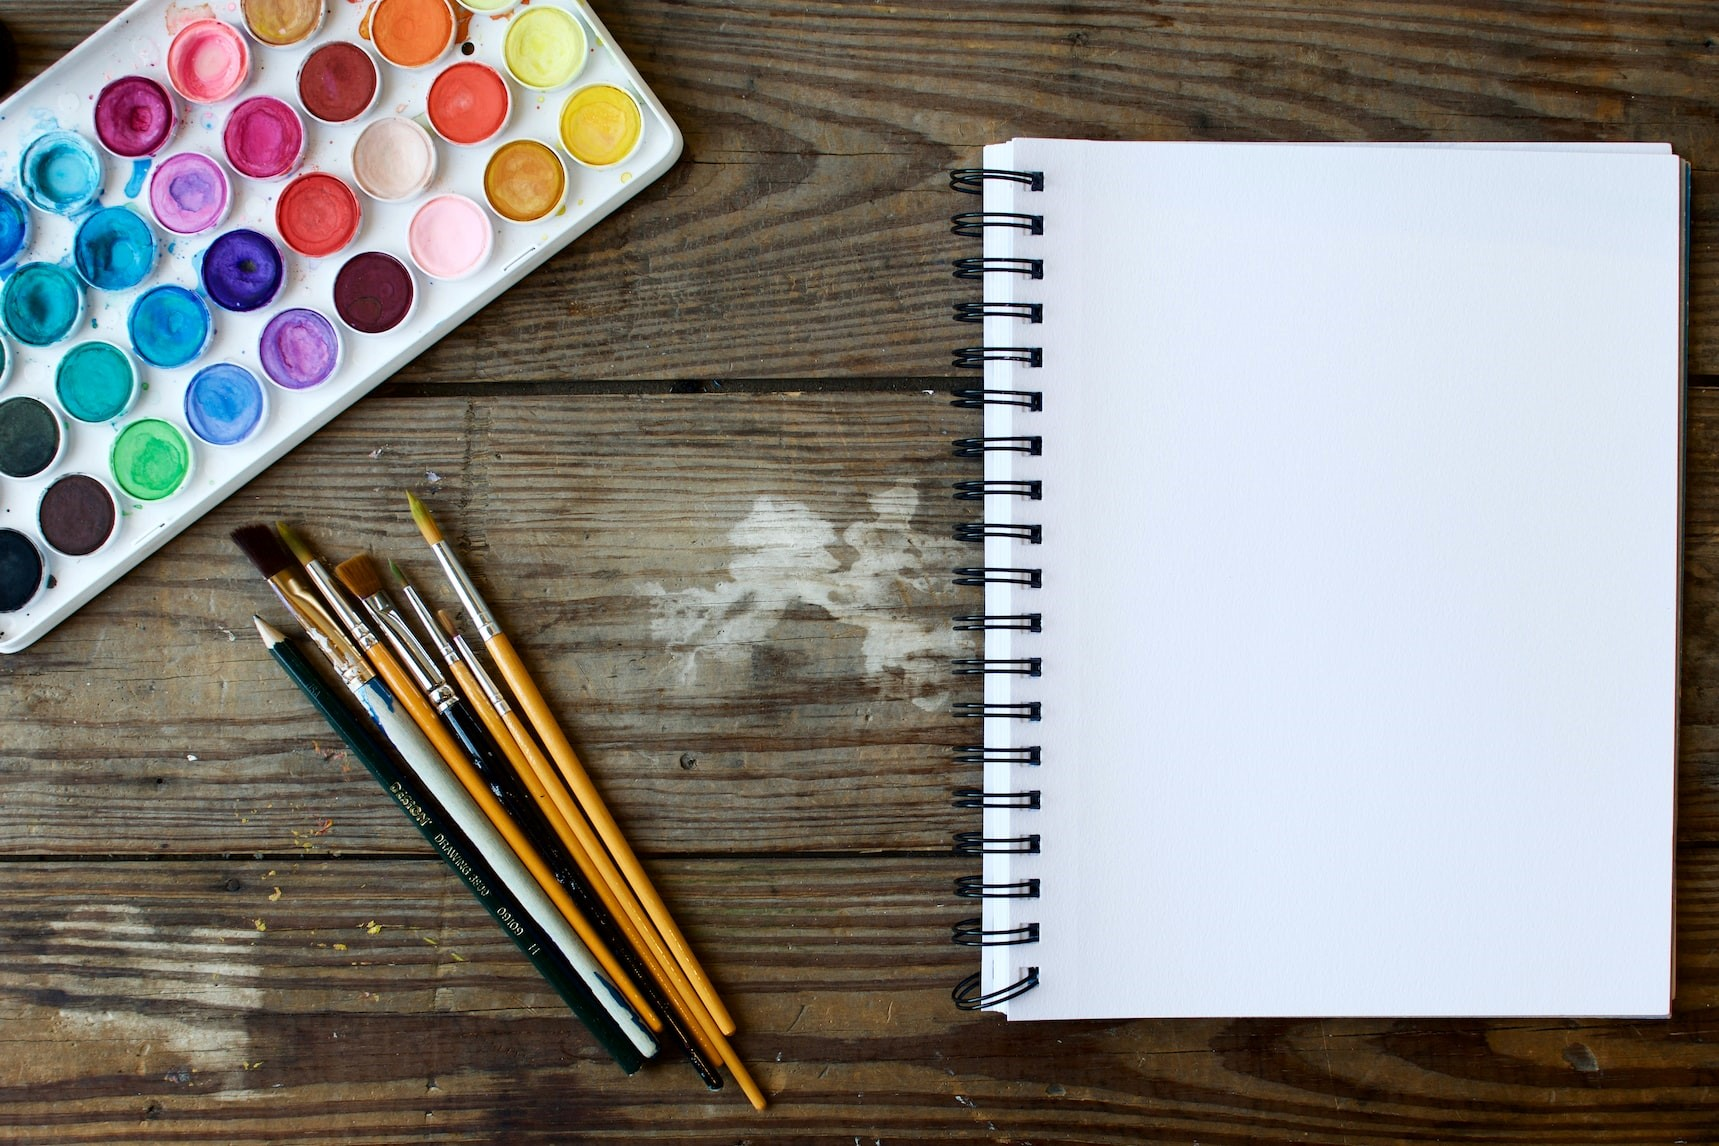
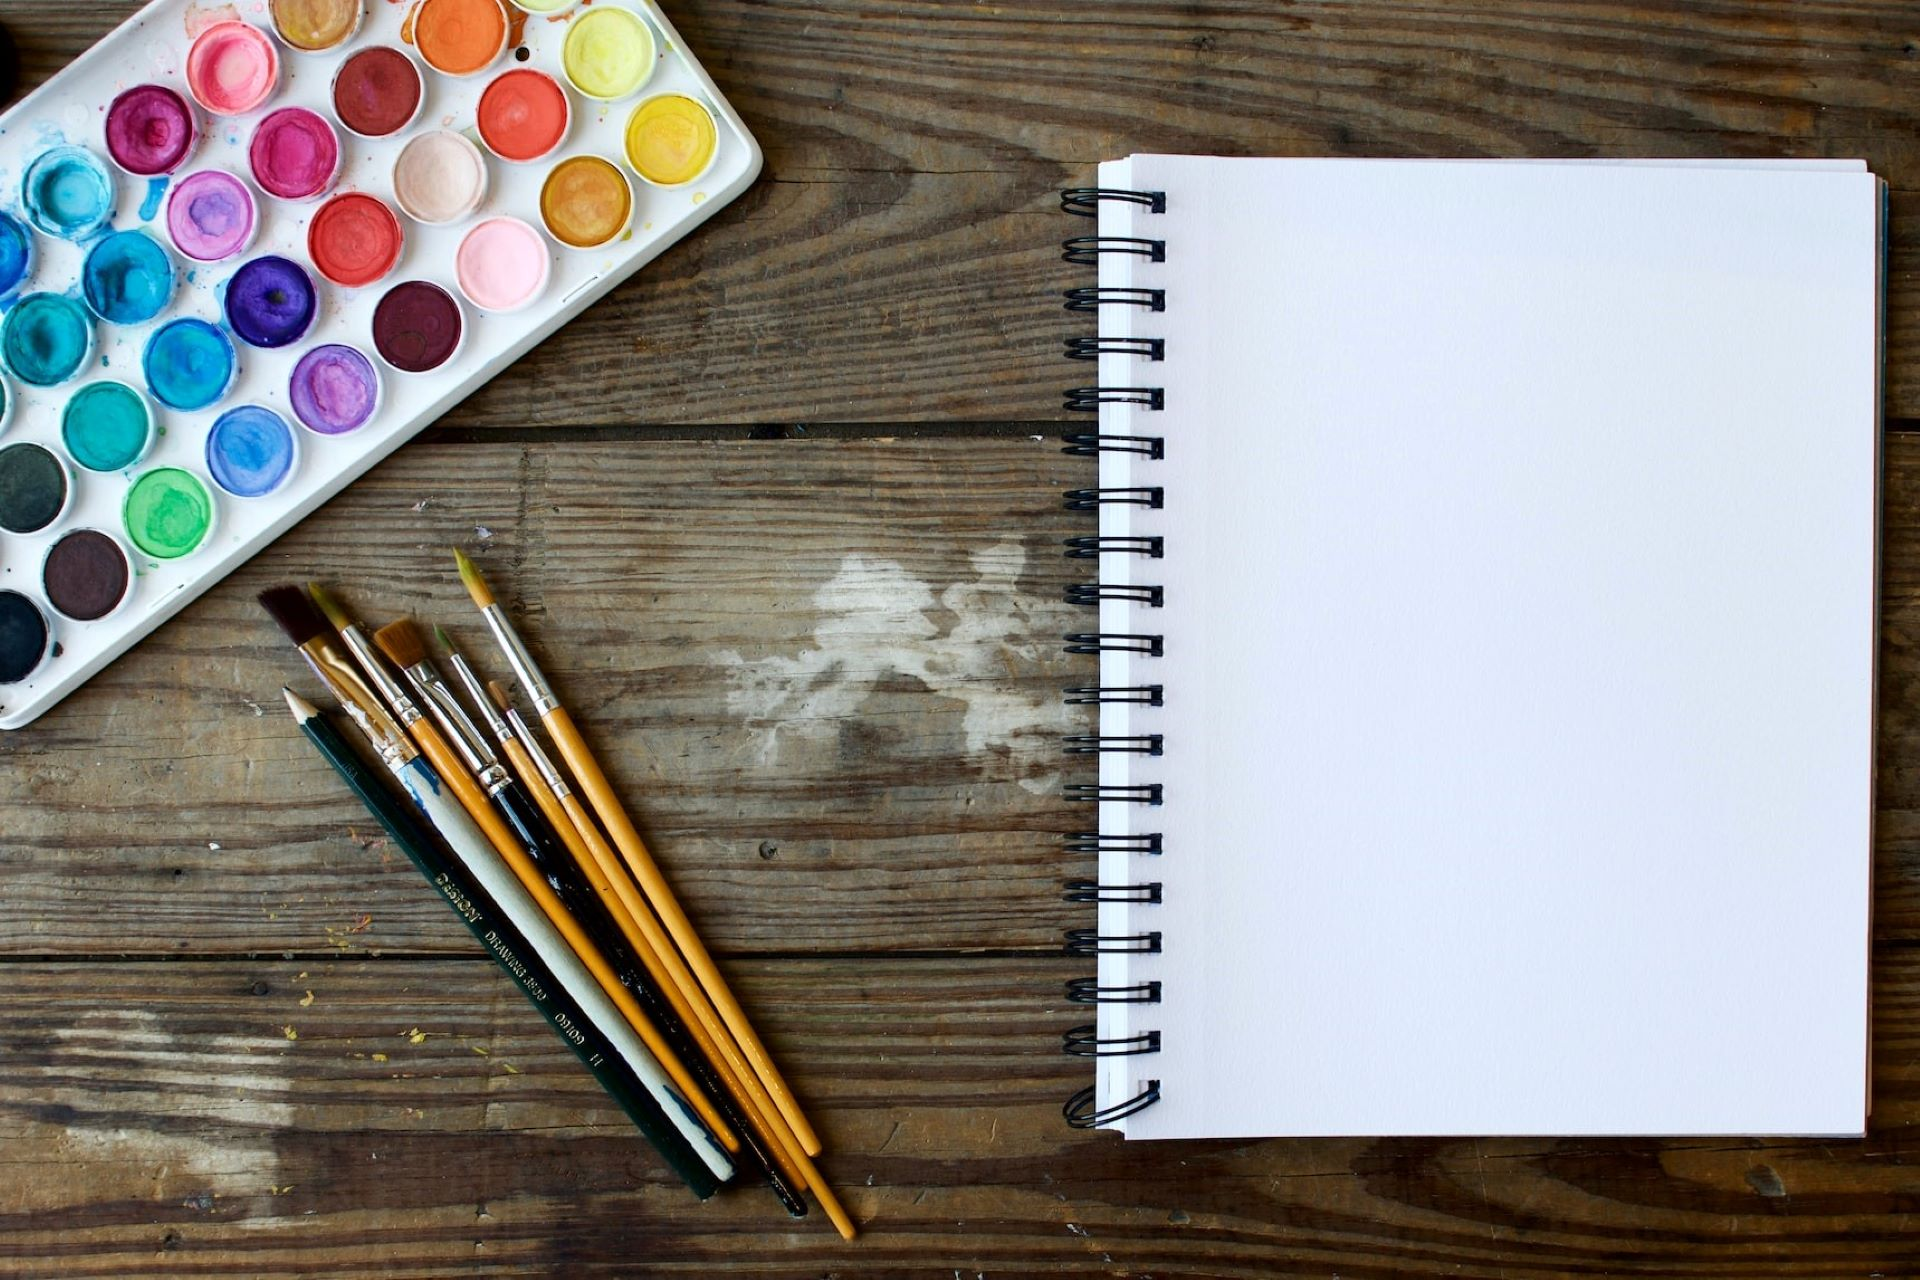
add viewport-tag for mobile devices responsive scale, background-image fix when width very large

diff --git a/static/css/main.css b/static/css/main.css
@@ -36,23 +36,6 @@ footer {
 }
 
 
-@media (min-width: 992px) {
-    .form-container {
-        width: 500px;
-    }
-}
-@media (max-width: 991px) {
-    .form-container {
-        width: 70%;
-    }
-}
-
-@media (max-width: 480px) {
-    .form-container {
-        width: 80%;
-    }
-}
-
 .social-icons {
     margin: 20px 0;
 }
@@ -65,16 +48,33 @@ footer {
     margin-bottom: 30px;
 }
 
+
+
+@media (min-width: 992px) {
+    .form-container {
+        width: 500px;
+    }
+}
+@media (max-width: 991px) and (min-width: 481px) {
+    .form-container {
+        width: 70%;
+    }
+}
+
+@media (max-width: 480px) {
+    .form-container {
+        width: 80%;
+    }
+}
+
+
+
 .navbar-light .navbar-nav .active>.nav-link, .navbar-light .navbar-nav .nav-link.active, .navbar-light .navbar-nav .nav-link.show, .navbar-light .navbar-nav .show>.nav-link {
     color: #000;
 }
 
 .transparent-bg-light {
     background: rgba(248, 249, 250, 0.5);
-}
-
-.nav-text-lg {
-    font-size: 1.2rem;
 }
 
 .background-image {
@@ -86,15 +86,23 @@ footer {
     bottom: 0;
 }
 
-@media (min-aspect-ratio: 3/2) {
+
+@media (max-aspect-ratio: 3/2) and (max-width: 1920px) {
+    .background-image {
+        height:100%;
+        text-align: center;
+    }
+}
+
+@media (min-aspect-ratio: 3/2) and (max-width: 1920px) {
     .background-image {
         max-width:100%;
     }
 }
 
-@media (max-aspect-ratio: 3/2) {
+@media (min-aspect-ratio: 3/2) and (min-width: 1921px) {
     .background-image {
-        height:100%;
+        width:100%;
         text-align: center;
     }
 }

diff --git a/templates/base.html b/templates/base.html
@@ -2,6 +2,7 @@
 <html lang="en">
 <head>
     {% block head %}
+    <meta name="viewport" content="width=device-width, initial-scale=1" />
     <meta charset="UTF-8">
 
     {% block styles %}

diff --git a/application.py b/application.py
@@ -58,3 +58,5 @@ def contact():
 def whatido():
     return render_template('whatido.html')
 
+if __name__ == '__main__':
+    application.run(debug=True)
